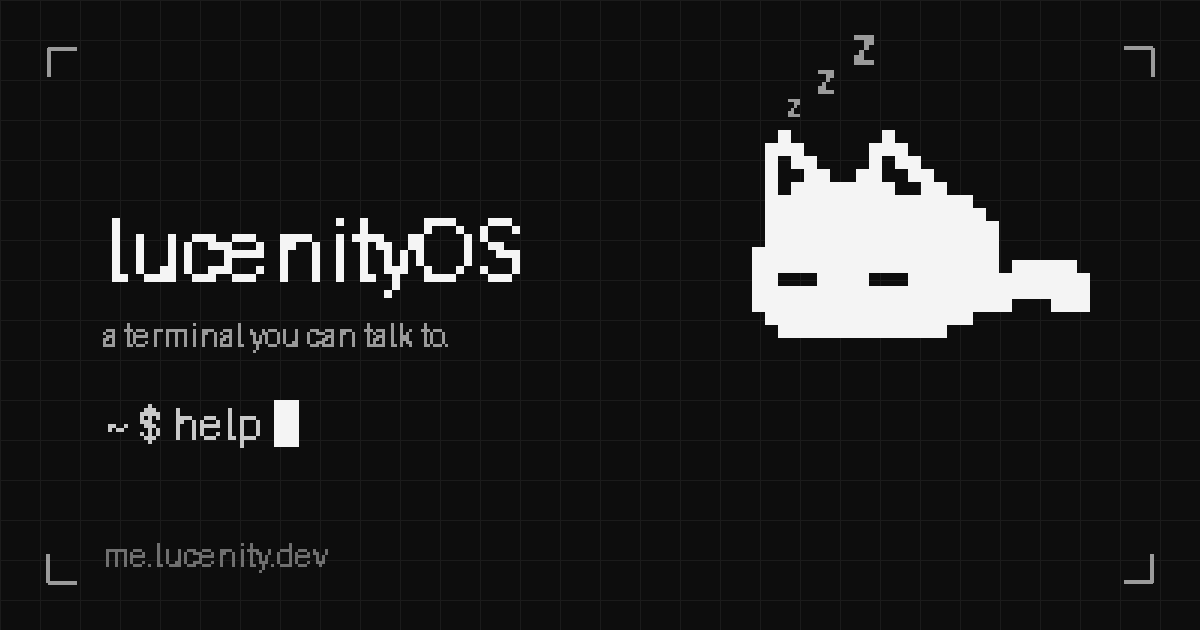
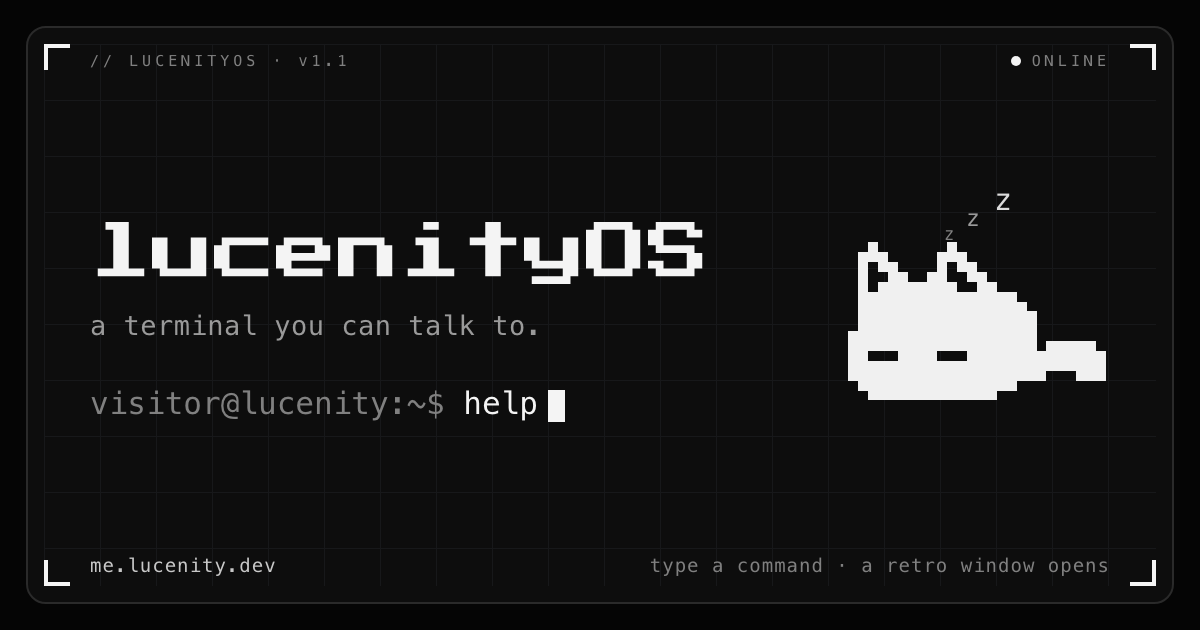
Redraw the social card so it reads at thumbnail size
The old og.png was mostly empty space with thin, low-contrast type, and
chat apps render it at roughly 340px wide — where it read as a gray
smudge with a blob in the corner.

Rebuild it out of the README banner's parts: the same corner brackets,
grid, `// LUCENITYOS · v1.1` / ONLINE chrome row, and the exact pixel cat
sprite from assets/header.svg. The banner itself can't be the card — at
880x330 it's all fine detail (boot log, about-window, 10px labels) that
turns to mush when scaled down — so the boot log gives way to a 62px
Press Start 2P wordmark, which is the one thing that survives the
downscale.

Bump the og:image and twitter:image URLs to ?v=2; WhatsApp and Twitter
cache social images by URL and would otherwise keep serving the old one.

diff --git a/index.html b/index.html
@@ -23,14 +23,14 @@
     <meta property="og:url" content="https://me.lucenity.dev/" />
     <meta property="og:title" content="lucenity // terminal" />
     <meta property="og:description" content="A terminal you can talk to. Type `help` to begin." />
-    <meta property="og:image" content="https://me.lucenity.dev/og.png" />
+    <meta property="og:image" content="https://me.lucenity.dev/og.png?v=2" />
     <meta property="og:image:width" content="1200" />
     <meta property="og:image:height" content="630" />
     <meta property="og:image:alt" content="A pixel-art sleeping cat beside the lucenityOS terminal prompt." />
     <meta name="twitter:card" content="summary_large_image" />
     <meta name="twitter:title" content="lucenity // terminal" />
     <meta name="twitter:description" content="A terminal you can talk to. Type `help` to begin." />
-    <meta name="twitter:image" content="https://me.lucenity.dev/og.png" />
+    <meta name="twitter:image" content="https://me.lucenity.dev/og.png?v=2" />
     <!--
       This is the DEV entry point (portfolio). It only runs on the `dev` branch
       via `npm run dev`. The public site (main branch) still serves the
